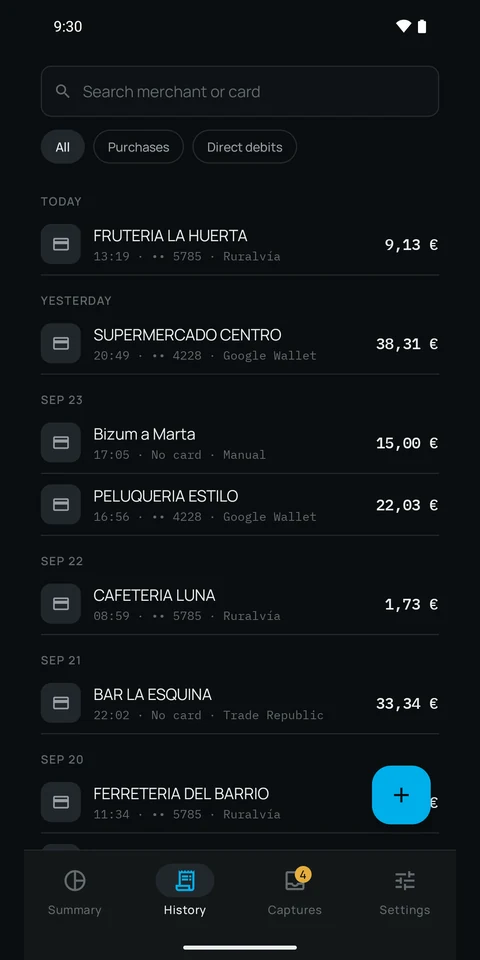
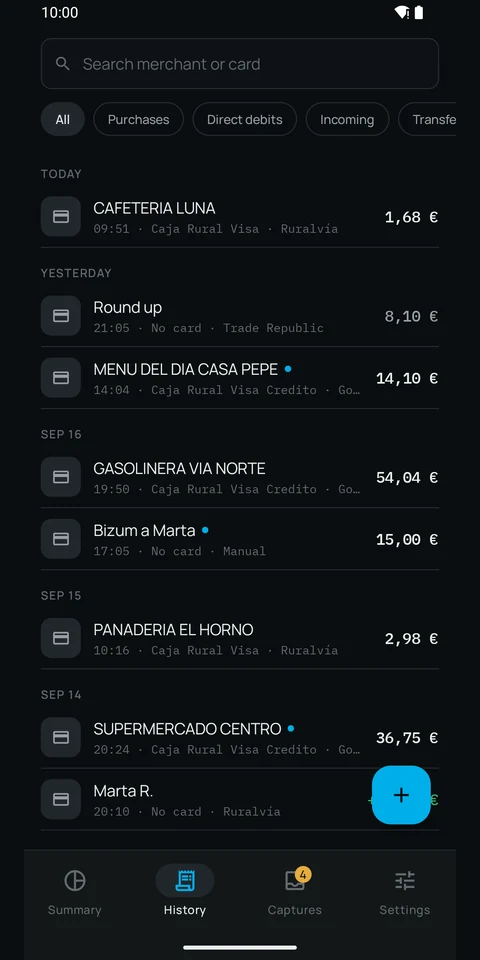
Capturas nuevas: las de la portada ya enseñan la V2
Las que había eran del 03-09 y contaban una app anterior: sin entradas ni
traspasos, sin presupuesto y sin mapa de calor. Ahora salen de los datos de
demostración al día —que hasta hoy tampoco tenían entradas— con el emulador a
mitad de mes, tema oscuro y la barra de estado en modo demostración.

Los textos alternativos van con ellas, que es la parte fácil de olvidar: el de
Resumen seguía diciendo «653,44 € en 32 movimientos» y un desglose por tarjeta
que ya no se ve, y el de Ajustes prometía un botón de exportar a CSV que en la
captura nueva queda debajo del presupuesto. Un alt que no describe la imagen es
peor que no tenerlo: es lo único que lee quien no ve la pantalla.

El de Capturas se queda como estaba, porque sigue siendo verdad.

`verificar.py` en verde.

diff --git a/index.html b/index.html
@@ -300,16 +300,16 @@ aapt2 dump permissions xtracto.apk</pre>
     <div style="display:grid;grid-template-columns:repeat(auto-fit,minmax(148px,1fr));gap:14px;margin-top:36px">
       <img src="capturas/resumen-es.webp" width="480" height="960" loading="lazy" decoding="async"
            style="width:100%;height:auto;border-radius:14px;border:1px solid var(--border);display:block"
-           alt="Pantalla de Resumen de Xtracto: el total del mes, 653,44 € en 32 movimientos, el desglose por tarjeta y la lista de los últimos gastos con su comercio y su hora.">
+           alt="Pantalla de Resumen de Xtracto: el total del mes, 489,32 € en 23 gastos, los 52,14 € que han entrado, la barra de presupuesto con su marca de ritmo y el mapa de calor de los días en que se gastó.">
       <img src="capturas/movimientos-es.webp" width="480" height="960" loading="lazy" decoding="async"
            style="width:100%;height:auto;border-radius:14px;border:1px solid var(--border);display:block"
-           alt="Pantalla de Movimientos: el historial agrupado por día, con buscador y filtros, y en cada línea el comercio, la tarjeta y la app que mandó el aviso.">
+           alt="Pantalla de Movimientos: el historial agrupado por día, con buscador y filtros por compras, domiciliaciones, entradas y traspasos, y en cada línea el comercio, la tarjeta y la app que mandó el aviso.">
       <img src="capturas/capturas-es.webp" width="480" height="960" loading="lazy" decoding="async"
            style="width:100%;height:auto;border-radius:14px;border:1px solid var(--border);display:block"
            alt="Pantalla de Capturas: el archivo de los avisos recibidos, con el texto original de los que el parser todavía no interpreta.">
       <img src="capturas/ajustes-es.webp" width="480" height="960" loading="lazy" decoding="async"
            style="width:100%;height:auto;border-radius:14px;border:1px solid var(--border);display:block"
-           alt="Pantalla de Ajustes: el acceso a notificaciones concedido, el reprocesado del archivo y el botón de exportar los movimientos a CSV.">
+           alt="Pantalla de Ajustes: el acceso a notificaciones concedido, el presupuesto mensual y el reprocesado del archivo, que vuelve a pasar por el parser lo que no encajó.">
     </div>
     <p class="apunte" style="margin-top:14px">Los importes y los comercios de las capturas son inventados: se hacen en un emulador con datos de prueba, no sobre el teléfono de nadie.</p>
   </div>

diff --git a/en.html b/en.html
@@ -301,16 +301,16 @@ aapt2 dump permissions xtracto.apk</pre>
     <div style="display:grid;grid-template-columns:repeat(auto-fit,minmax(148px,1fr));gap:14px;margin-top:36px">
       <img src="capturas/resumen-en.webp" width="480" height="960" loading="lazy" decoding="async"
            style="width:100%;height:auto;border-radius:14px;border:1px solid var(--border);display:block"
-           alt="Xtracto’s Summary screen: the month total, 653,44 € across 32 movements, the per-card breakdown and the latest expenses with merchant and time.">
+           alt="Xtracto’s Summary screen: the month total, 489,32 € across 23 expenses, the 52,14 € that came in, the budget bar with its pace marker and the heatmap of the days money went out.">
       <img src="capturas/movimientos-en.webp" width="480" height="960" loading="lazy" decoding="async"
            style="width:100%;height:auto;border-radius:14px;border:1px solid var(--border);display:block"
-           alt="The History screen: movements grouped by day, with search and filters, and on each line the merchant, the card and the app that sent the alert.">
+           alt="The History screen: movements grouped by day, with search and filters for purchases, direct debits, incoming and transfers, and on each line the merchant, the card and the app that sent the alert.">
       <img src="capturas/capturas-en.webp" width="480" height="960" loading="lazy" decoding="async"
            style="width:100%;height:auto;border-radius:14px;border:1px solid var(--border);display:block"
            alt="The Captures screen: the archive of alerts received, showing the original text of the ones the parser does not understand yet.">
       <img src="capturas/ajustes-en.webp" width="480" height="960" loading="lazy" decoding="async"
            style="width:100%;height:auto;border-radius:14px;border:1px solid var(--border);display:block"
-           alt="The Settings screen: notification access granted, the archive reprocessing and the button to export the movements to CSV.">
+           alt="The Settings screen: notification access granted, the monthly budget and the archive reprocessing, which runs the parser again over whatever did not match.">
     </div>
     <p class="apunte" style="margin-top:14px">The amounts and merchants in these screenshots are made up: they are taken on an emulator with test data, never from anyone’s phone.</p>
   </div>
